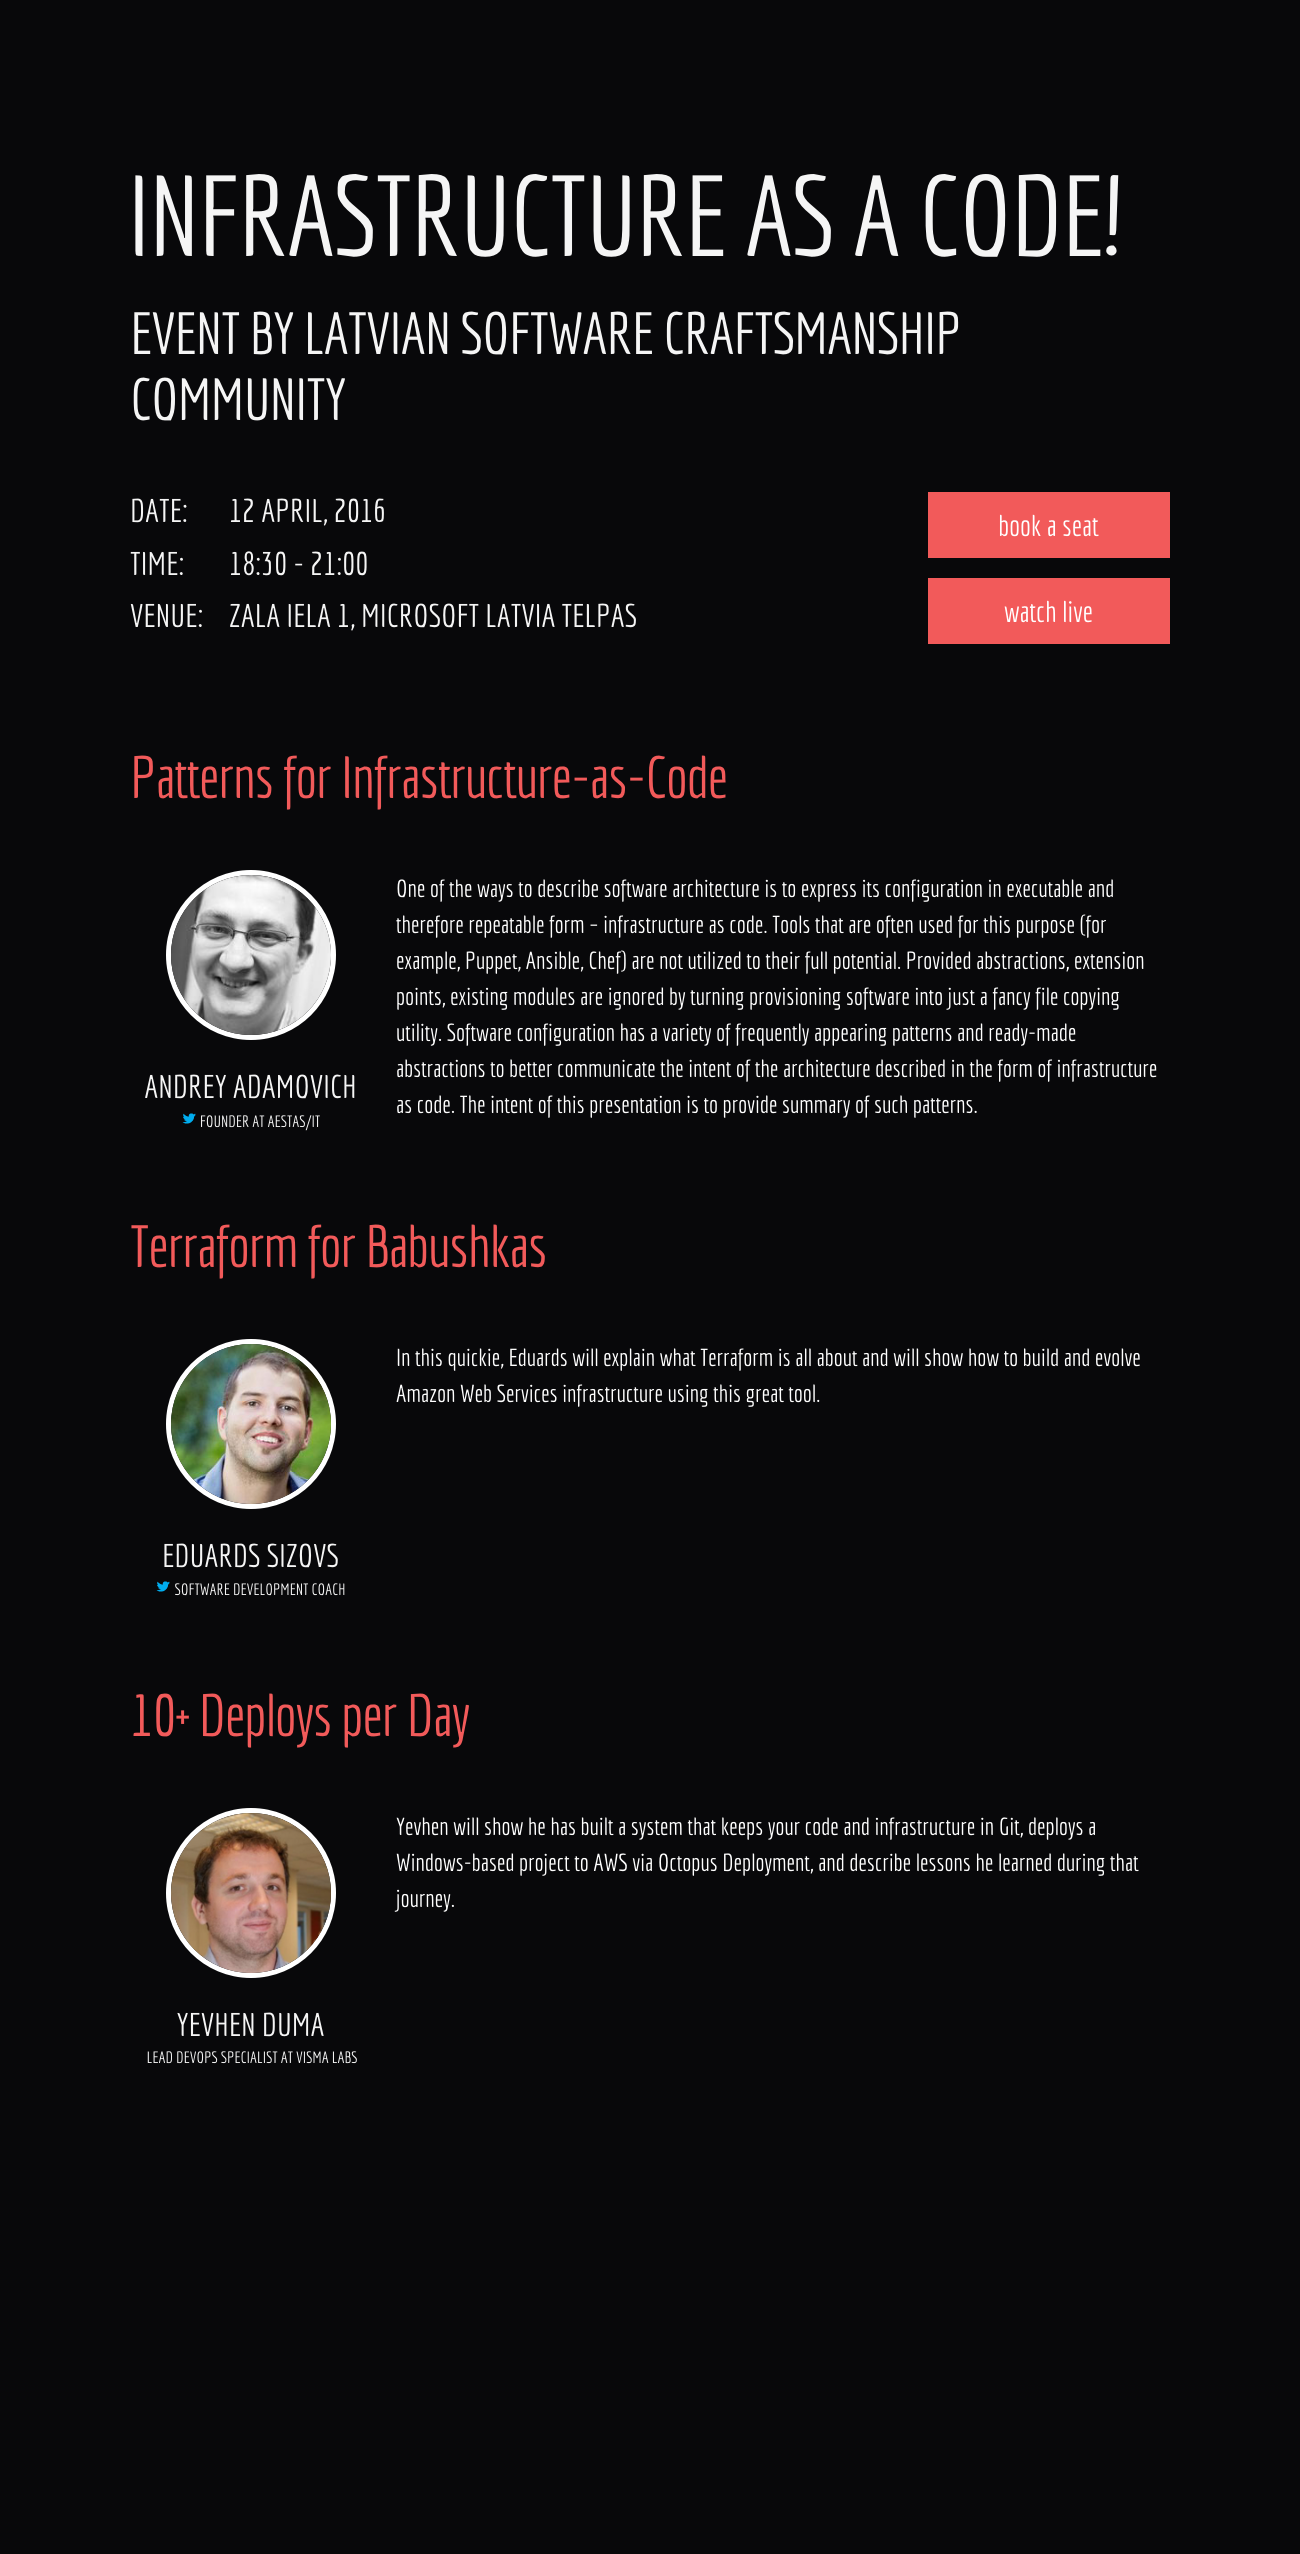
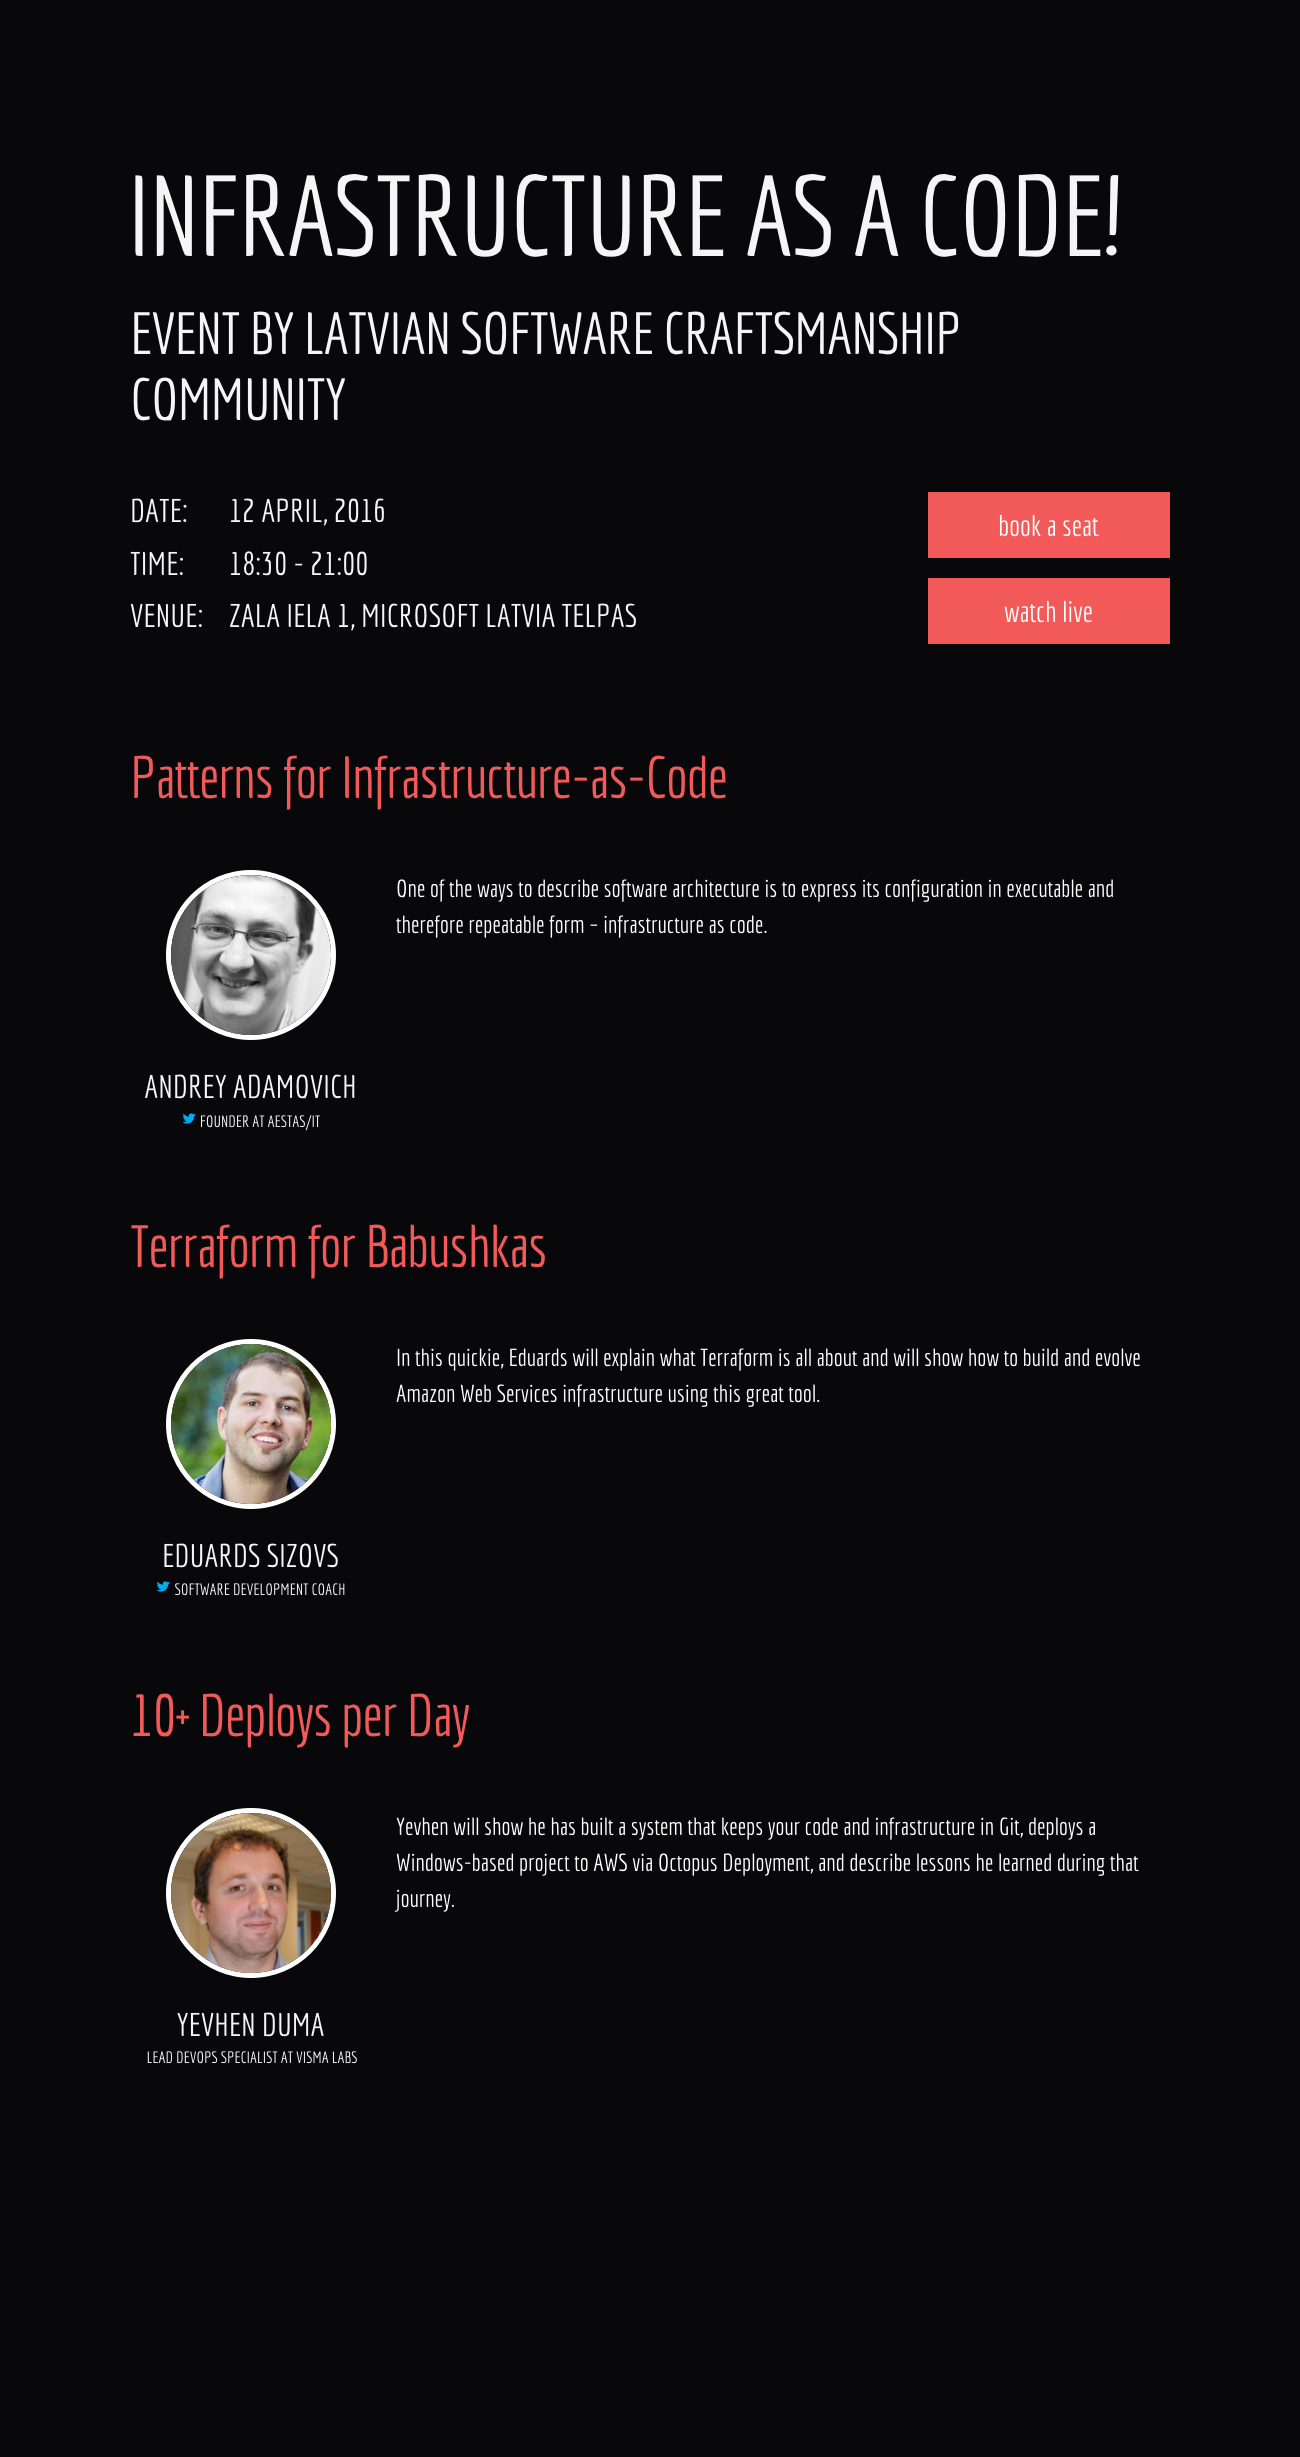
Update 2016-04-20T11:20:45.675Z

Changed region(s): [[0.0923, 0.0619, 0.8923, 0.8352], [0.7077, 0.1856, 0.9231, 0.2784]]

diff --git a/index.html b/index.html
@@ -113,7 +113,7 @@
                     <h5>Andrey Adamovich<a href="https://twitter.com/codingandrey"><img src="img/twitter.png" alt="@codingandrey at Twitter"></a>
                     </h5><span>Founder at Aestas/IT</span>
                   </div>
-                  <p>One of the ways to describe software architecture is to express its configuration in executable and therefore repeatable form – infrastructure as code. Tools that are often used for this purpose (for example, Puppet, Ansible, Chef) are not utilized to their full potential. Provided abstractions, extension points, existing modules are ignored by turning provisioning software into just a fancy file copying utility. Software configuration has a variety of frequently appearing patterns and ready-made abstractions to better communicate the intent of the architecture described in the form of infrastructure as code. The intent of this presentation is to provide summary of such patterns.</p>
+                  <p>One of the ways to describe software architecture is to express its configuration in executable and therefore repeatable form – infrastructure as code.</p>
                   <div class="button-group"><a href="https://speakerdeck.com/latcraft/patterns-for-infrastructure-as-code" target="_blank" class="button effect"> 
                       <div data-hover="view slides">view slides</div></a>
                   </div>

diff --git a/2016/infrastracture.html b/2016/infrastracture.html
@@ -51,7 +51,7 @@
               <h4> <a href="https://twitter.com/codingandrey"><img src="/img/twitter.png" alt="@codingandrey at Twitter"></a><span>&nbsp;Founder at Aestas/IT</span>
               </h4>
             </div>
-            <p class="description">One of the ways to describe software architecture is to express its configuration in executable and therefore repeatable form – infrastructure as code. Tools that are often used for this purpose (for example, Puppet, Ansible, Chef) are not utilized to their full potential. Provided abstractions, extension points, existing modules are ignored by turning provisioning software into just a fancy file copying utility. Software configuration has a variety of frequently appearing patterns and ready-made abstractions to better communicate the intent of the architecture described in the form of infrastructure as code. The intent of this presentation is to provide summary of such patterns.														</p>
+            <p class="description">One of the ways to describe software architecture is to express its configuration in executable and therefore repeatable form – infrastructure as code.														</p>
           </section>
           <h2>Terraform for Babushkas</h2>
           <section>

diff --git a/img/2016/infrastracture.html b/img/2016/infrastracture.html
@@ -51,7 +51,7 @@
               <h4> <a href="https://twitter.com/codingandrey"><img src="/img/twitter.png" alt="@codingandrey at Twitter"></a><span>&nbsp;Founder at Aestas/IT</span>
               </h4>
             </div>
-            <p class="description">One of the ways to describe software architecture is to express its configuration in executable and therefore repeatable form – infrastructure as code. Tools that are often used for this purpose (for example, Puppet, Ansible, Chef) are not utilized to their full potential. Provided abstractions, extension points, existing modules are ignored by turning provisioning software into just a fancy file copying utility. Software configuration has a variety of frequently appearing patterns and ready-made abstractions to better communicate the intent of the architecture described in the form of infrastructure as code. The intent of this presentation is to provide summary of such patterns.														</p>
+            <p class="description">One of the ways to describe software architecture is to express its configuration in executable and therefore repeatable form – infrastructure as code.														</p>
           </section>
           <h2>Terraform for Babushkas</h2>
           <section>
